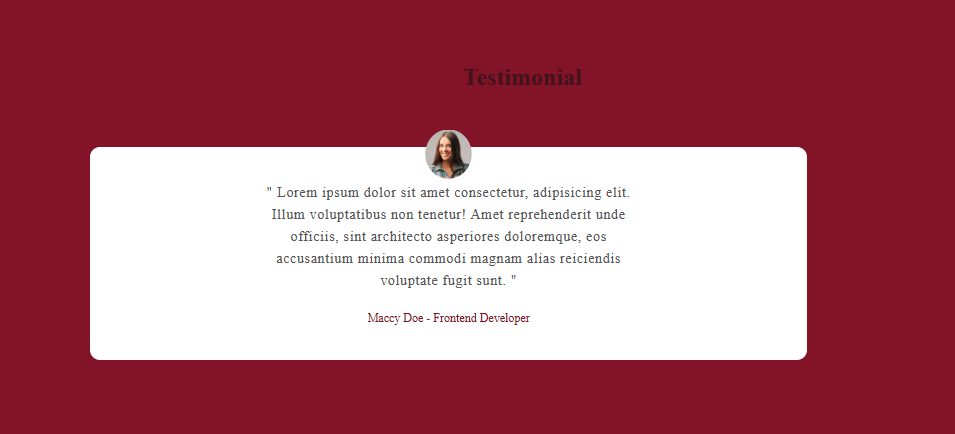
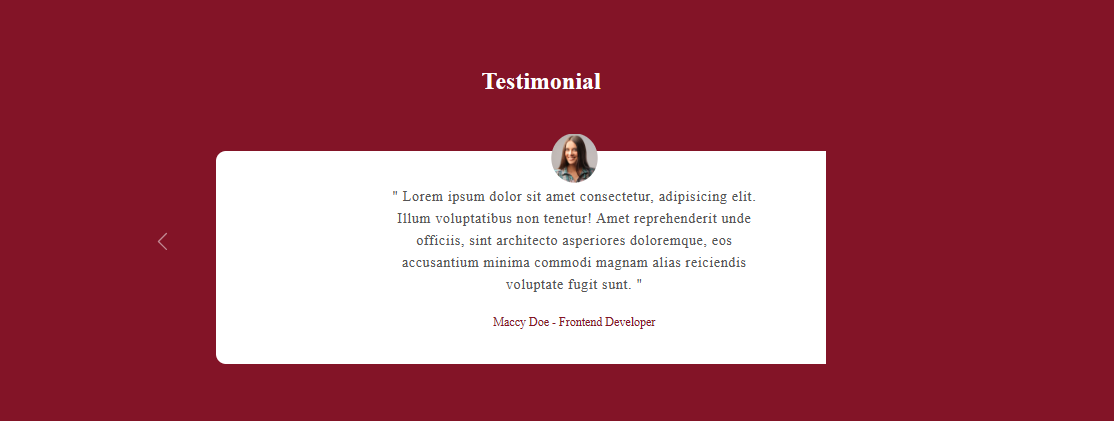
Resturent Website using Bootstrap

Changed region(s): [[0.0911, 0.2779, 0.8503, 0.8646], [0.4251, 0.1544, 0.6073, 0.2162]]

diff --git a/style.css b/style.css
@@ -97,10 +97,10 @@ p{
     display: inline-block;
     padding: 0.625rem 1.875rem;
     line-height: 1.5625rem;
-    
+    color: white;
     background-color: var(--primary-color);
     border: 0.1875 solid var(--primary-color);
-    font-size: o.9375rem;
+    font-size: 0.9375rem;
     font-weight: 600;
     text-transform: capitalize;
     box-shadow: 0px 2px 10px -1px rgb(0, 0, 0 / 0.9);
@@ -109,10 +109,12 @@ p{
     -moz-transtion: all .4s ease-out 0s;
     transition: all .4s ease-out 0s;
 }
+
 .white-btn{
     
     padding: 0.625rem 1.875rem;
     line-height: 20px;
+   
     background-color: var(--white-color);
     border: 0.1875rem solid var(--white-color);
     font-size: 0.9375rem;
@@ -136,8 +138,9 @@ p{
     border-color: var(--primary-color);
 }
 .wrapper{
-    padding-top: 6.25rem;
+    padding-top: 6.215rem;
     padding-bottom: 8.25rem;
+   
     
 }
 .text-content{
@@ -323,10 +326,20 @@ border-radius: 0.9378rem;
 .testimonial-section .carousel-item{
     
     margin-top: 3rem;
-    padding: 10rem 3.125rem;
+    margin-left: 10rem;
+   
+    padding : 10rem 3.125rem ;
+    
+
     background-color: var(--white-color);
     border-radius: 0.9375rem;
     text-align: center;
+    
+    
+}
+
+.testimonial-section h2{
+    color: white;
 }
 .testimonial-section .carousel-item .carousel-caption img{
     max-width:5rem;
